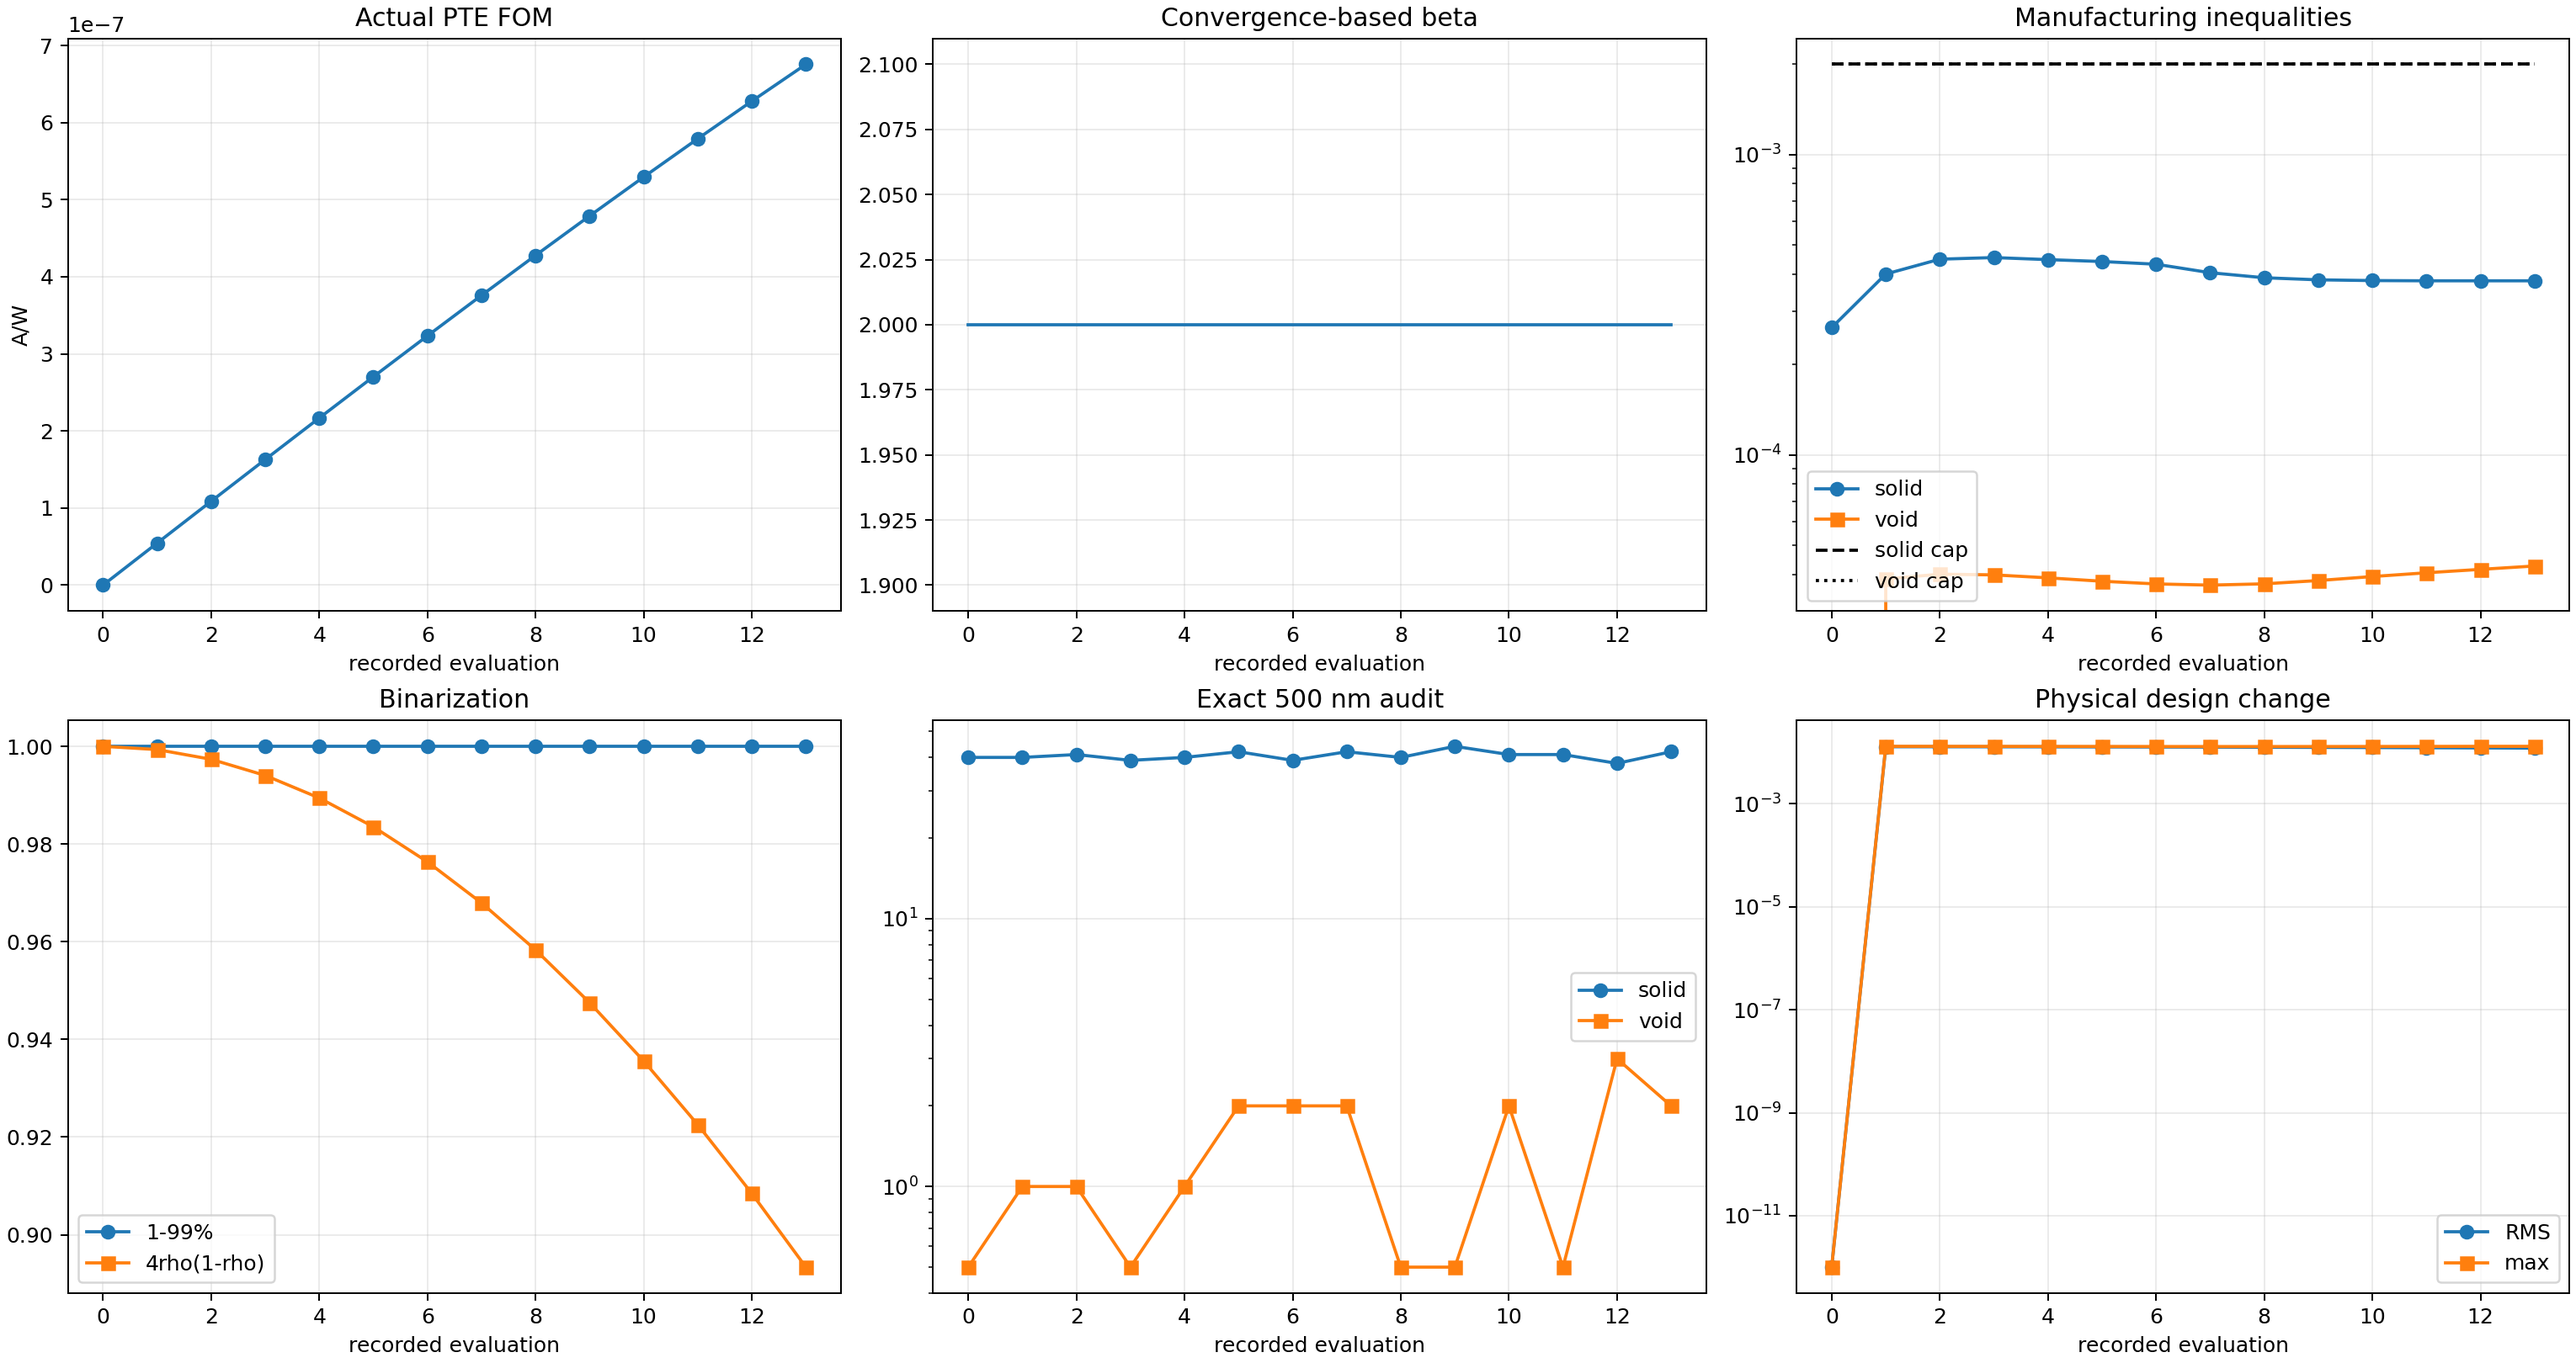
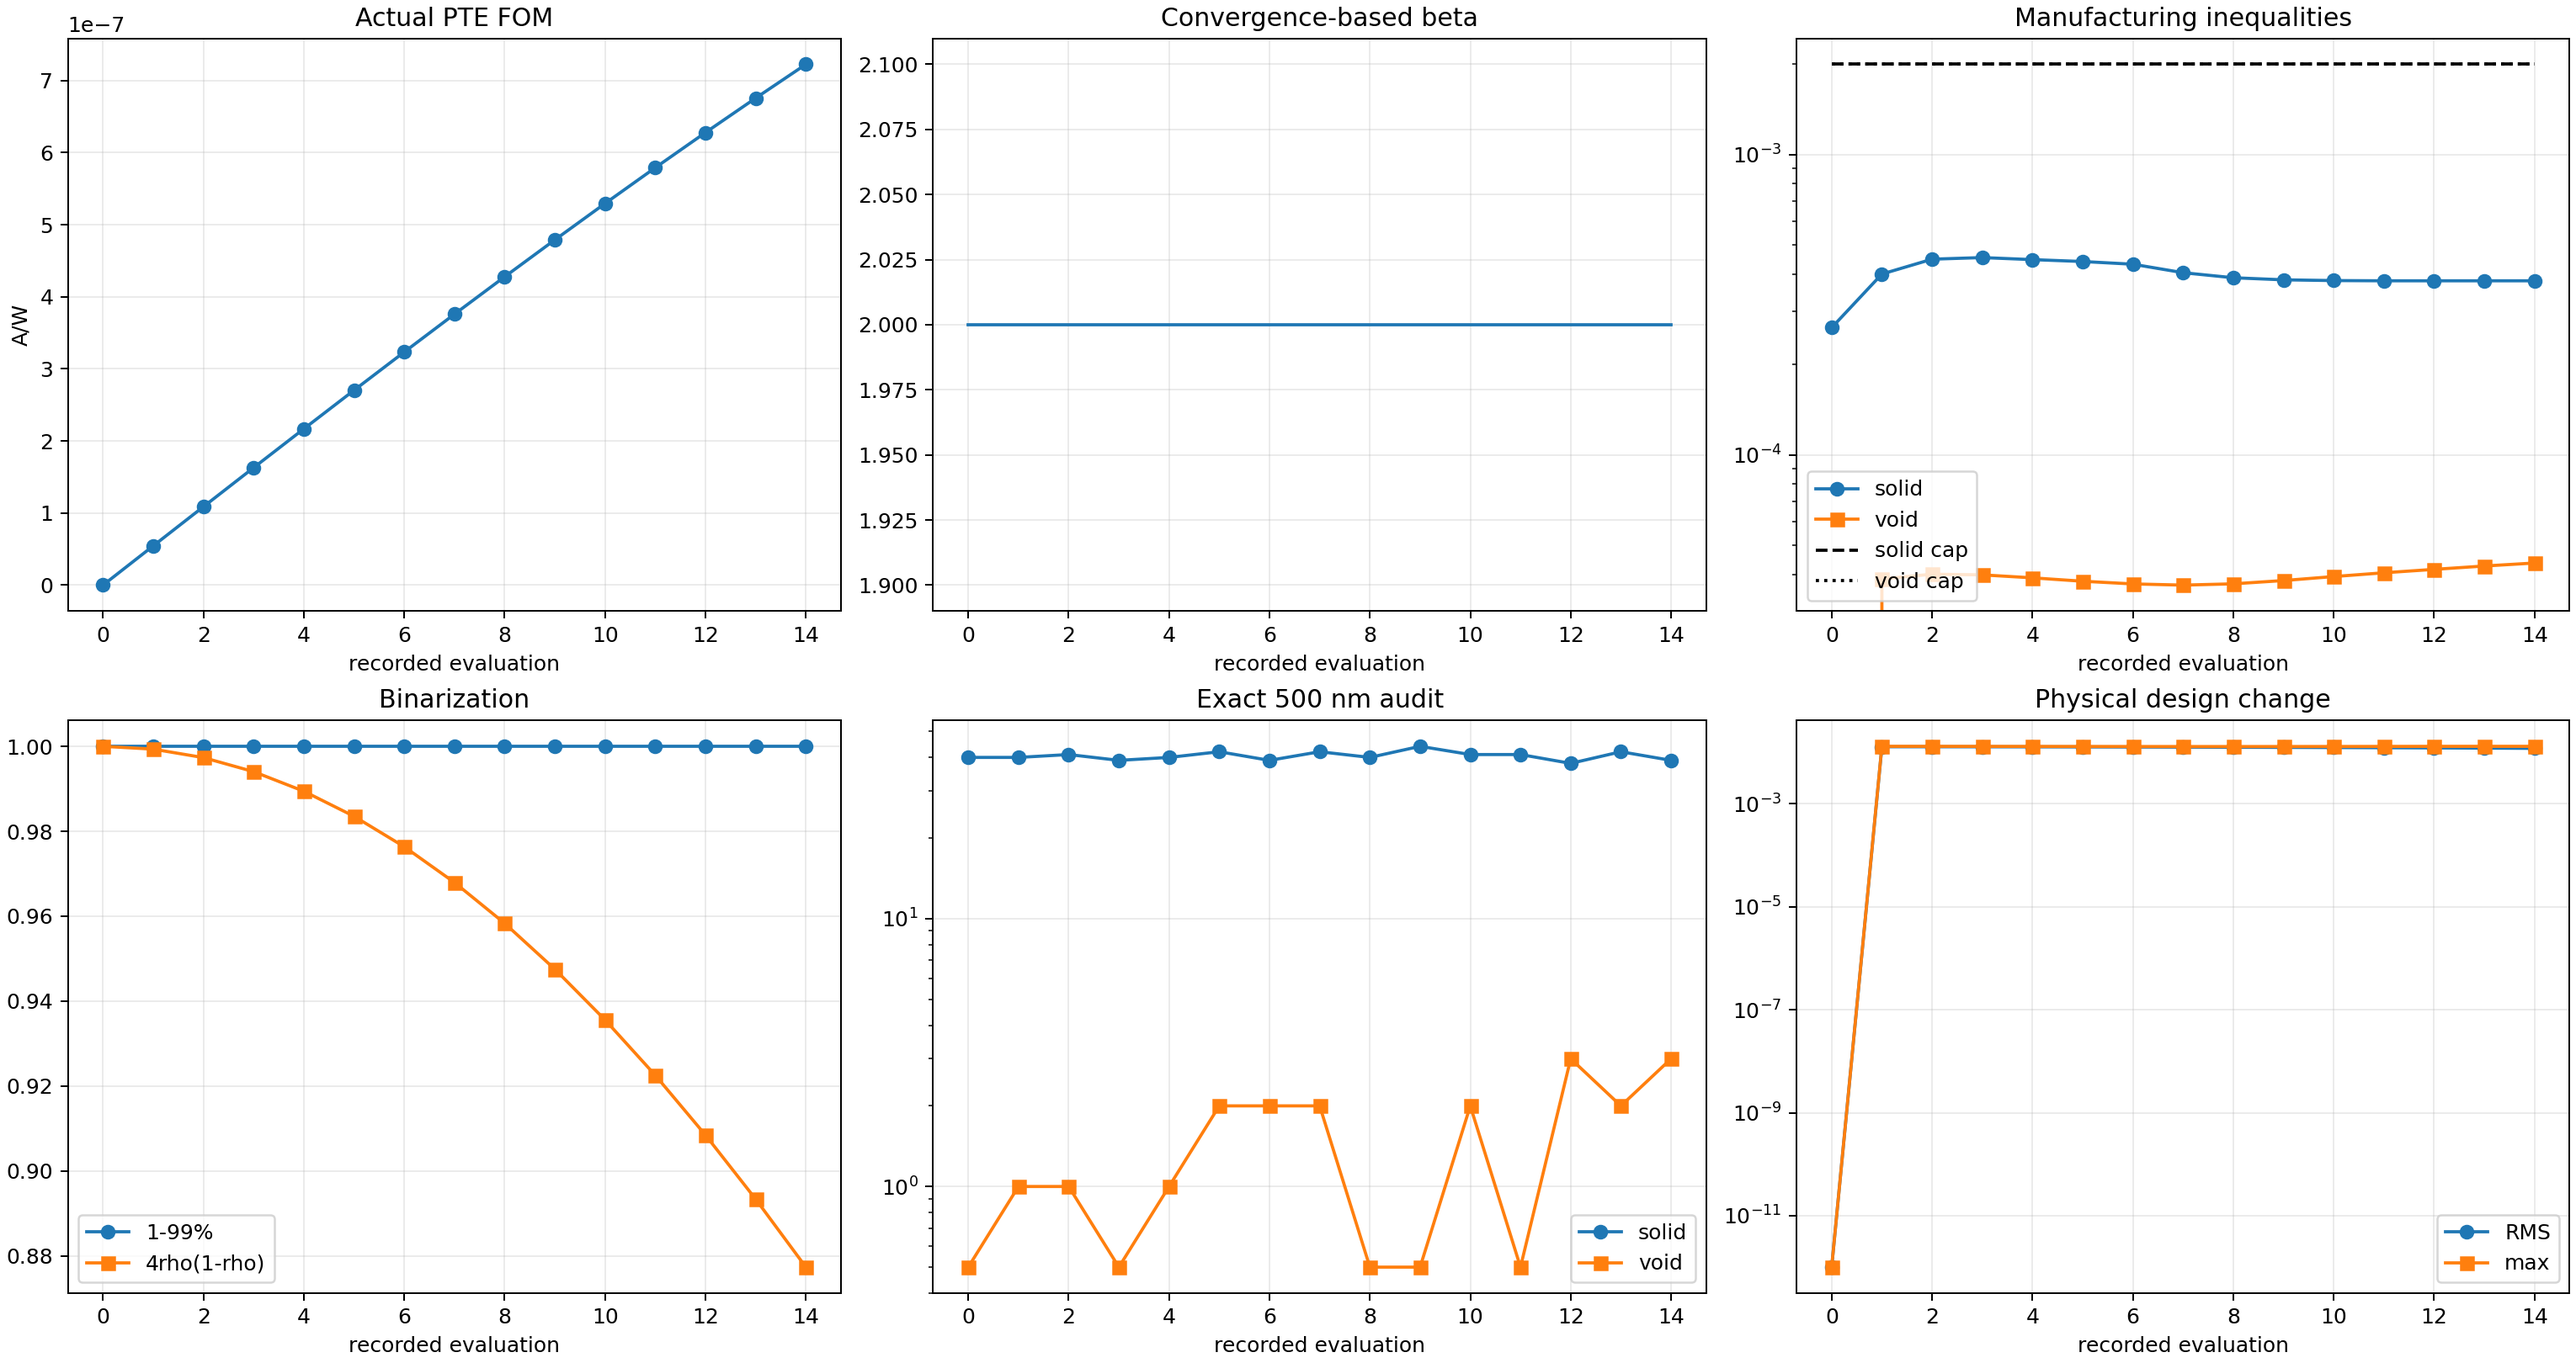
Record Run 005 run009_Ea_uniform_b002_s014_g014_accepted_mma

diff --git a/photothermal_pte/optimization_runs/run_009_uniform_Ea_from_scratch/results/OPTIMIZATION_REPORT.md b/photothermal_pte/optimization_runs/run_009_uniform_Ea_from_scratch/results/OPTIMIZATION_REPORT.md
@@ -2,12 +2,12 @@
 
 Status: `RUNNING_EXACT_UNIFORM_EA_OBJECTIVE_FIRST_OPTIMIZATION`
 
-Current stage: beta=2, accepted stage iteration=13, global iteration=13.
+Current stage: beta=2, accepted stage iteration=14, global iteration=14.
 
 Constraint contract: `soft_disk_opening_500nm_from_iteration_zero_v5`.
 
-Actual FOM: `6.756496057998e-07 A/W`. Fixed-cap solid/void constraints: `3.801962e-04` / `4.266531e-05` with caps `2.000000e-03` / `2.000000e-03`.
+Actual FOM: `7.225194815093e-07 A/W`. Fixed-cap solid/void constraints: `3.801964e-04` / `4.365752e-05` with caps `2.000000e-03` / `2.000000e-03`.
 
-Exact 500 nm bad cells: solid `42`, void `2`. Stage convergence: `False` (recent FOM/density changes have not plateaued).
+Exact 500 nm bad cells: solid `39`, void `3`. Stage convergence: `False` (recent FOM/density changes have not plateaued).
 
 Beta advances only after the stage FOM/density plateau. The run is not complete until the projected-binary and exact 500 nm gates pass and a fresh thresholded-binary GPU/CUDA evaluation succeeds.
